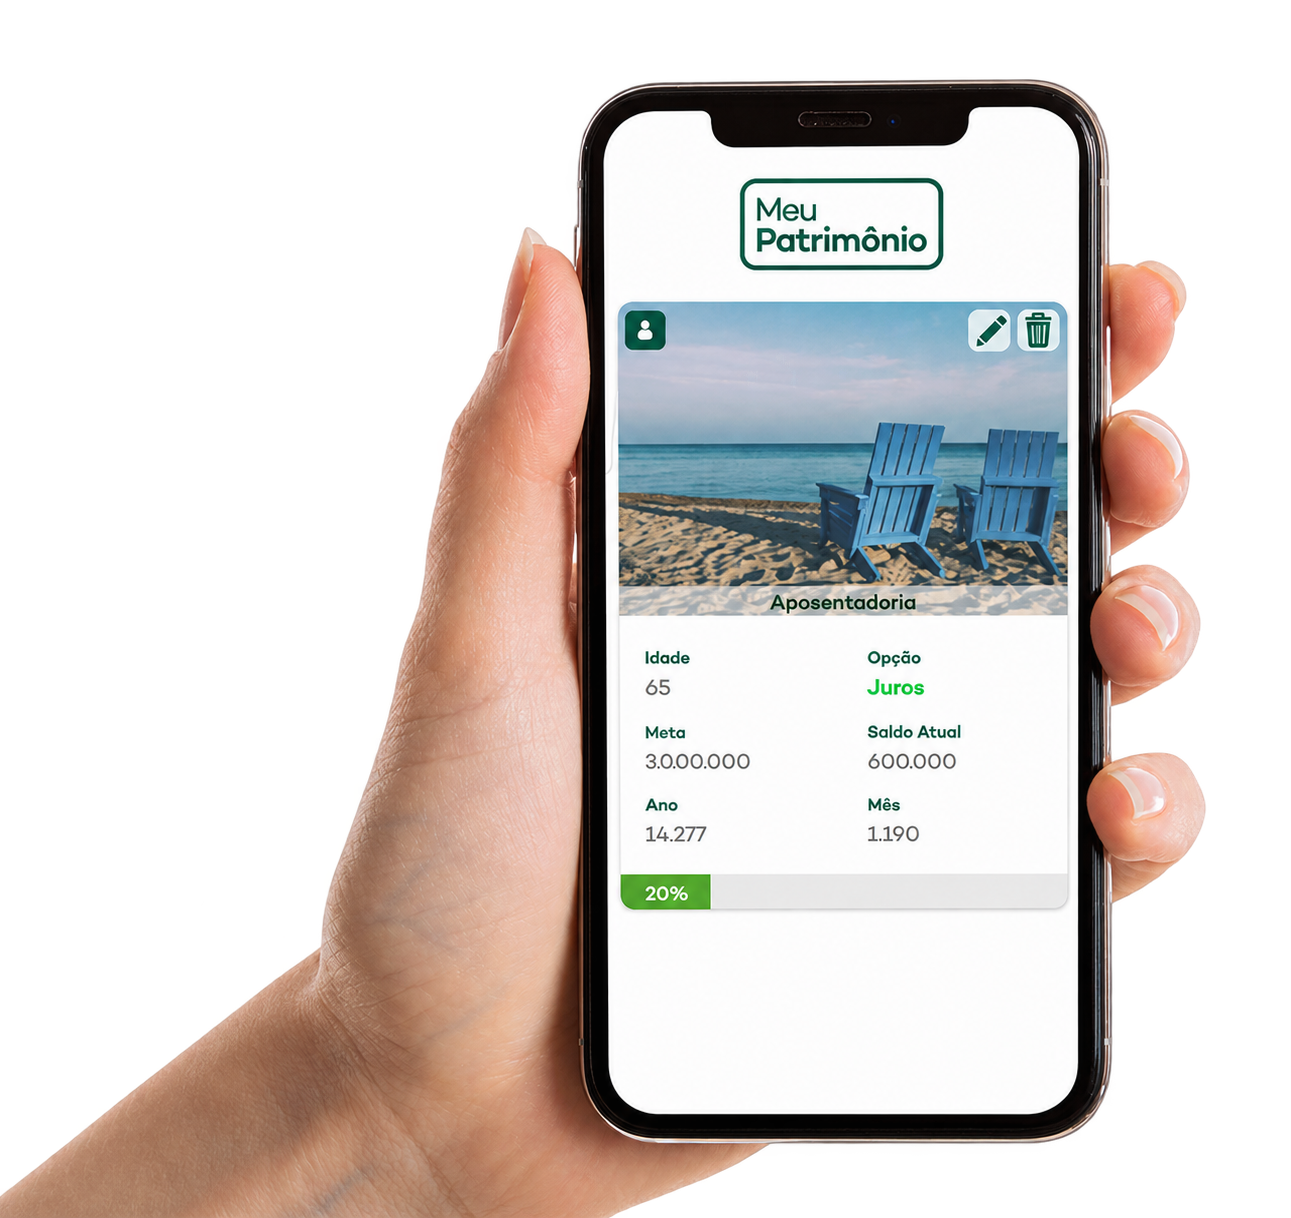
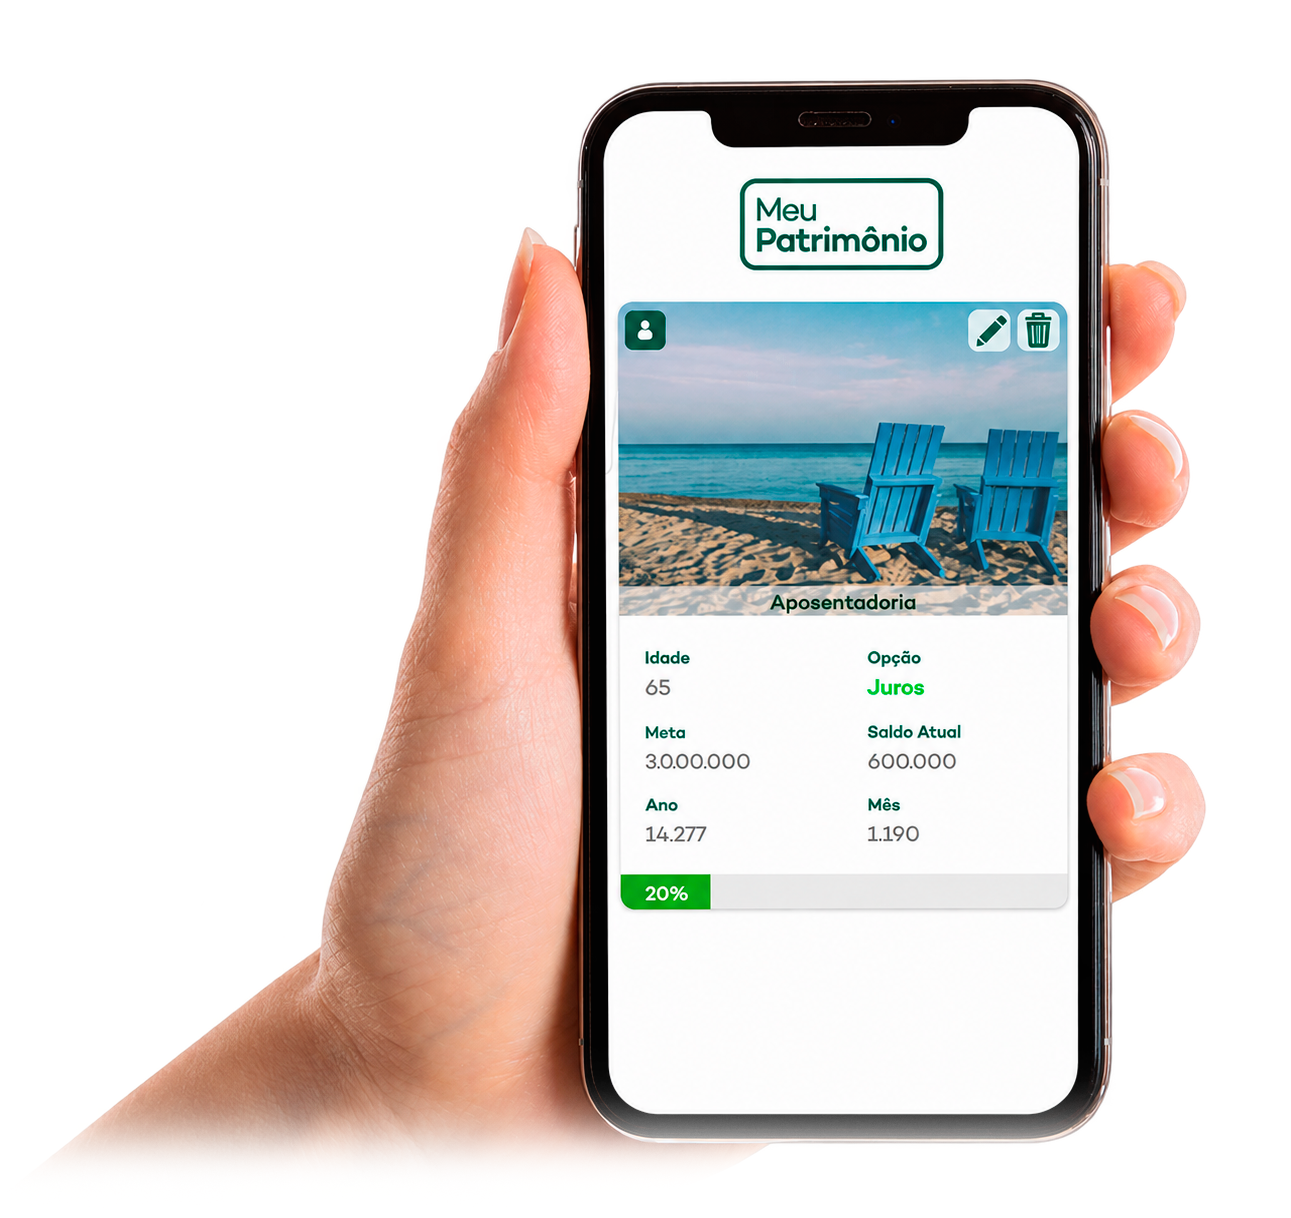
Atualiza imagem do app Meu Plano (nova versao sem fundo)

diff --git a/index.html b/index.html
@@ -14,7 +14,7 @@
   <link rel="apple-touch-icon" href="assets/img/apple-touch-icon.png">
   <link rel="preconnect" href="https://cdn.jsdelivr.net" crossorigin>
   <link rel="stylesheet" href="https://cdn.jsdelivr.net/npm/bootstrap-icons@1.11.3/font/bootstrap-icons.min.css">
-  <link rel="stylesheet" href="styles.css?v=44">
+  <link rel="stylesheet" href="styles.css?v=45">
 </head>
 <body>
   <a class="skip-link" href="#conteudo">Ir para o conteúdo</a>
@@ -319,7 +319,7 @@
         </div>
         <div class="app-visual reveal">
           <div class="app-stage app-phone-stage">
-            <img class="app-mockup" src="assets/img/app-objetivos.png?v=2" alt="Aplicativo Meu Plano: tela de Objetivos com a meta de aposentadoria, meta, saldo e progresso" loading="lazy" decoding="async">
+            <img class="app-mockup" src="assets/img/app-objetivos.png?v=3" alt="Aplicativo Meu Plano: tela de Objetivos com a meta de aposentadoria, meta, saldo e progresso" loading="lazy" decoding="async">
           </div>
         </div>
       </div>
@@ -563,6 +563,6 @@
     <svg viewBox="0 0 24 24"><path d="M17.5 14.4c-.3-.1-1.7-.8-2-.9-.3-.1-.5-.1-.6.1-.2.3-.7.9-.9 1.1-.2.2-.3.2-.6.1-.3-.1-1.2-.4-2.3-1.4-.9-.8-1.4-1.7-1.6-2-.2-.3 0-.4.1-.6l.5-.5c.1-.2.2-.3.2-.5.1-.2 0-.4 0-.5 0-.1-.6-1.5-.9-2-.2-.5-.4-.4-.6-.4h-.5c-.2 0-.5.1-.7.3-.3.3-1 .9-1 2.3 0 1.3 1 2.6 1.1 2.8.1.2 1.9 2.9 4.6 4 .6.3 1.1.4 1.5.6.6.2 1.2.2 1.6.1.5-.1 1.7-.7 1.9-1.3.2-.7.2-1.2.2-1.3-.1-.2-.3-.2-.5-.3zM12 2a10 10 0 00-8.6 15l-1.3 4.7 4.8-1.3A10 10 0 1012 2z"/></svg>
   </a>
 
-  <script src="app.js?v=44" defer></script>
+  <script src="app.js?v=45" defer></script>
 </body>
 </html>
